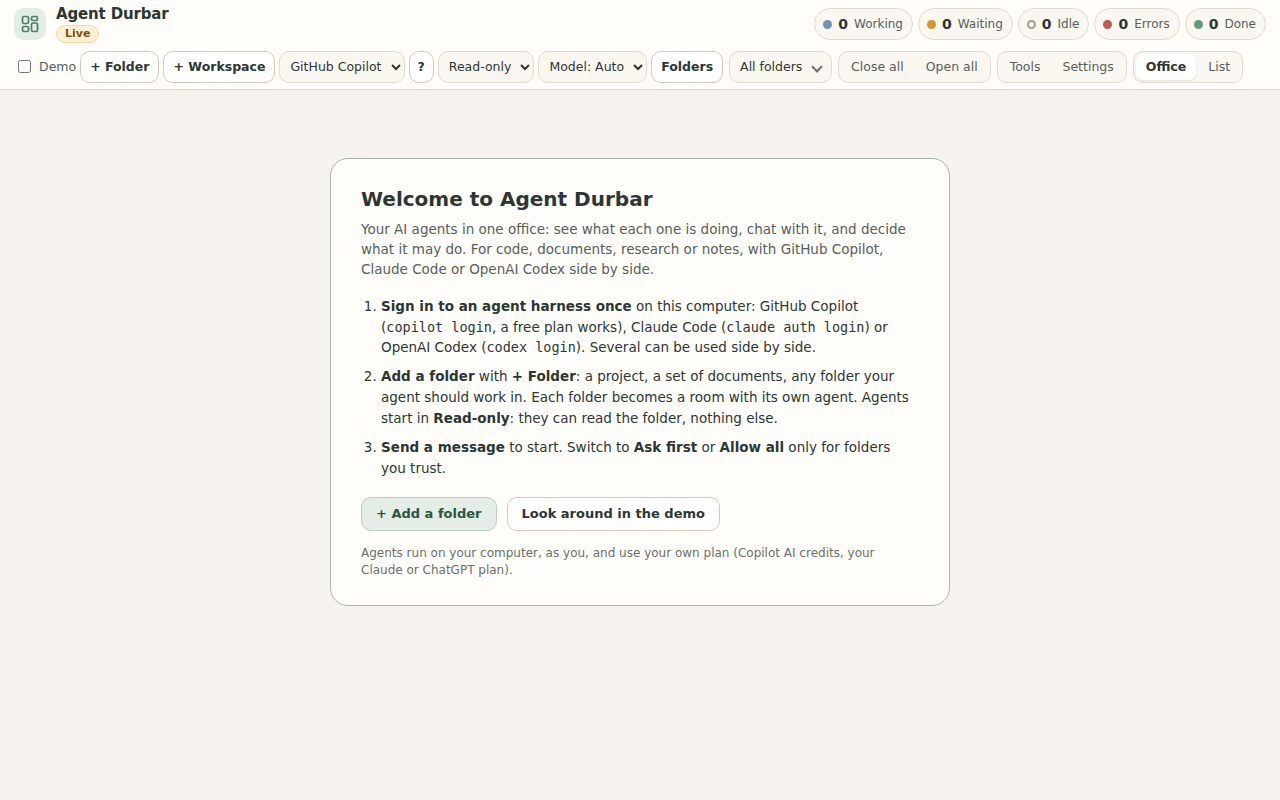
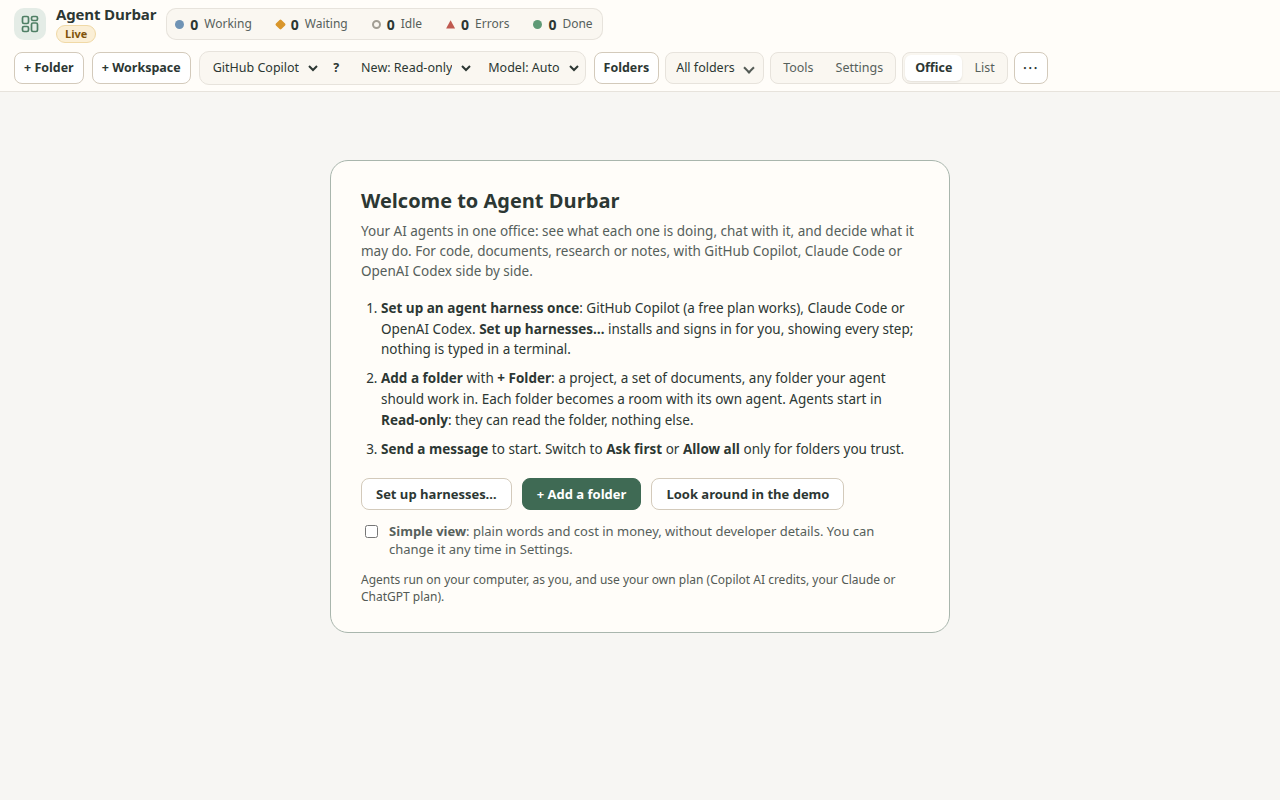
051: entry points, welcome step, real sign-in checks, docs and screenshots

Changed region(s): [[0.2812, 0.375, 0.7188, 0.75], [0.0, 0.0, 0.9688, 0.125], [0.2812, 0.2188, 0.7188, 0.3438]]

diff --git a/src/renderer/app.js b/src/renderer/app.js
@@ -654,17 +654,18 @@ let layoutKey='', layout=null;
 const WELCOME_HTML=`<section class="welcome" aria-labelledby="wlT"><h2 id="wlT">Welcome to Agent Durbar</h2>
   <p class="wl-sub">Your AI agents in one office: see what each one is doing, chat with it, and decide what it may do. For code, documents, research or notes, with GitHub Copilot, Claude Code or OpenAI Codex side by side.</p>
   <ol class="wl-steps">
-    <li><b>Sign in to an agent harness once</b> on this computer: GitHub Copilot (<code>copilot login</code>, a free plan works), Claude Code (<code>claude auth login</code>) or OpenAI Codex (<code>codex login</code>). Several can be used side by side.</li>
+    <li><b>Set up an agent harness once</b>: GitHub Copilot (a free plan works), Claude Code or OpenAI Codex. <b>Set up harnesses…</b> installs and signs in for you, showing every step; nothing is typed in a terminal.</li>
     <li><b>Add a folder</b> with <b>+ Folder</b>: a project, a set of documents, any folder your agent should work in. Each folder becomes a room with its own agent. Agents start in <b>Read-only</b>: they can read the folder, nothing else.</li>
     <li><b>Send a message</b> to start. Switch to <b>Ask first</b> or <b>Allow all</b> only for folders you trust.</li>
   </ol>
-  <div class="wl-actions"><button class="btn primary" type="button" data-wl="add">+ Add a folder</button><button class="btn" type="button" data-wl="demo">Look around in the demo</button></div>
+  <div class="wl-actions"><button class="btn" type="button" data-wl="setup">Set up harnesses…</button><button class="btn primary" type="button" data-wl="add">+ Add a folder</button><button class="btn" type="button" data-wl="demo">Look around in the demo</button></div>
   <label class="wl-simple"><input type="checkbox" data-wl-simple> <span><b>Simple view</b>: plain words and cost in money, without developer details. You can change it any time in Settings.</span></label>
   <p class="wl-note">Agents run on your computer, as you, and use your own plan (Copilot AI credits, your Claude or ChatGPT plan).</p></section>`;
 /* spec 052 FR-031: the welcome card offers Simple */
 document.addEventListener('change',e=>{if(e.target&&e.target.matches&&e.target.matches('[data-wl-simple]'))setDetail(e.target.checked?'simple':'expert');});
 document.addEventListener('click',e=>{const b=e.target.closest('[data-wl]');if(!b)return;
   if(b.dataset.wl==='add')$('addFolder').click();
+  else if(b.dataset.wl==='setup')window.DurbarScreens.openSettings('harnesses'); /* spec 051 FR-008 */
   else{const t=$('demoToggle');t.checked=true;t.dispatchEvent(new Event('change'));}});
 function renderOffice(){
   if(ui.view!=='office')return;
@@ -2247,9 +2248,10 @@ async function loadKinds(refresh){
 async function aboutKinds(){
   for(;;){
     const ch=DMK().kindChoices(KINDS);
-    const r=await askDialog({title:'About agent kinds',body:'Each kind is a different agent harness. Only a kind that is ready can be chosen. Nothing is installed or run from here: copy the hint if you need to set one up.',
+    const r=await askDialog({title:'About agent kinds',body:'Each kind is a different agent harness. Only a kind that is ready can be chosen. Settings > Harnesses can install, update or sign in to one for you.',
       lines:ch.map(k=>k.name+': '+(k.state==='ready'?'ready':k.stateText)+(k.version?' · version '+k.version:'')+(k.hint?' · '+k.hint:'')),
-      buttons:[{label:'Close',value:null},{label:'Check again',value:'again',cls:'primary'}],returnFocus:()=>$('kindHelp')});
+      buttons:[{label:'Close',value:null},{label:'Check again',value:'again'},{label:'Set up harnesses…',value:'setup',cls:'primary'}],returnFocus:()=>$('kindHelp')});
+    if(r&&r.value==='setup'){window.DurbarScreens.openSettings('harnesses');return;} /* spec 051 FR-008 */
     if(!r||r.value!=='again')return;
     await loadKinds(true);
   }

diff --git a/src/renderer/screens.js b/src/renderer/screens.js
@@ -170,6 +170,8 @@
         <details class="scr-more"><summary>More</summary><p class="scr-note small"><b>Folder extras…</b> in an agent's MCP menu opens the same list. Extras apply only to agents in that folder and are never shared with other folders. Switching one on shows its exact command first, and asks again if the command changes.</p></details>
       </section></details>${aboutSec}</div>`;
     wireHead();
+    /* spec 051 FR-008: entry points open Settings at Harnesses */
+    if(cur.section==='harnesses'){cur.section=null;const h=$('hsH');if(h){h.scrollIntoView({block:'start'});h.focus({preventScroll:true});}}
     if($('advMcp')){$('advMcp').ontoggle=()=>{advOpen=$('advMcp').open;};if(cur.section==='mcp'){cur.section=null;const h=$('mcpH');if(h){h.scrollIntoView({block:'start'});h.focus({preventScroll:true});}}}
     if(X.floors&&$('floorsSet'))X.floors.render();
     if(X.sched&&$('schedSet'))X.sched.render();
@@ -742,7 +744,7 @@
   window.DurbarScreens={
     init(ctx){X=ctx;if(window.DurbarHarnesses)window.DurbarHarnesses.init({bridge:ctx.bridge,toast:(t)=>ctx.toast(ctx.esc(t),3600),onChange:(again)=>{X._hsRefresh=true;if(ctx.refreshKinds)ctx.refreshKinds();if(cur&&cur.kind==='settings')paint();}});},
     folderMcp:openFolder,
-    openSettings:(section)=>{mcp=null;open('settings',section==='mcp'?{section:'mcp'}:null);},
+    openSettings:(section)=>{mcp=null;open('settings',section==='mcp'||section==='harnesses'?{section}:null);},
     openTools:(scope,tab)=>{if(tab==='agents')period='session';open('tools',{scope:scope||null,tab:tab||'tools'});},
     agentMcp,
     placeDialog,

diff --git a/specs/051-harness-setup/spec.md b/specs/051-harness-setup/spec.md
@@ -2,7 +2,7 @@
 
 **Feature Branch**: `051-harness-setup`
 **Created**: 2026-10-19
-**Status**: In progress (Phase 1: Settings > Harnesses with install, update and sign-in for Claude Code, Codex and the Copilot sign-in)
+**Status**: Built (Phase 1): Settings > Harnesses with install, update and sign-in for Copilot, Claude Code and Codex; simulator and unit tests, plus real sign-in flows started and cancelled on this machine
 **Input**: Issue #299. Owner (Telegram, 2026-10-19): "for harness setup itself - today we only say that in text, it is better to have wizards inside app to setup harnesses to make life of users easier as this app will also be used by non technical users". The open questions on #299 were decided by Vikram's agent under the owner's delegation the same day ("take decisions on issues which can be taken and you have all means to research and verify"); the decisions are in the issue comment and below.
 
 ## Summary
@@ -71,9 +71,9 @@ Each sign-in was started **without a terminal** (stdin closed, output to a file)
 - **FR-006** **Copilot needs the Copilot CLI only to sign in.** When Copilot is not signed in and the `copilot` CLI is not found, *Sign in…* first offers to install the Copilot CLI (FR-002), then continues with the sign-in.
 - **FR-007** **Copilot sign-in status.** The Copilot adapter gets an optional `authStatus()` that calls `getAuthStatus()` on its shared runtime client: `{ signedIn: boolean }` only (the login name, host and message are dropped). Settings > Harnesses shows Copilot as *Not signed in* when it is false. Detection itself stays free of I/O (`detectCopilot`), so the app's start does not change.
 - **FR-008** **Entry points:**
-  - the welcome screen's sign-in step gets a *Set up harnesses…* link;
-  - in the New session dialog, an unready harness's hint ends with *Set up…*, which opens Settings > Harnesses;
-  - both scroll to the Harnesses section.
+  - the welcome card leads with **Set up harnesses…**;
+  - "About agent kinds" (the "?" next to the harness picker) has **Set up harnesses…**;
+  - both open Settings at the Harnesses section.
 - **FR-009** **Simulator:** with `DURBAR_SIM`, Settings > Harnesses shows Copilot *Ready*, Claude Code *Not signed in* and Codex *Not installed* (with `DURBAR_SIM_KINDS=mixed`). The install and sign-in dialogs play canned output (a fake link and code); nothing runs.
 - **FR-010** **Safety summary** (constitution III):
   - no shell, fixed argv;
@@ -87,6 +87,37 @@ Each sign-in was started **without a terminal** (stdin closed, output to a file)
 - **SC-001** Someone with no terminal knowledge can go from *Not signed in* to *Ready* for Codex or Copilot by clicking *Sign in…*, opening the link and typing the code shown, without leaving Durbar except for the browser.
 - **SC-002** Every command Durbar runs is shown to the user before it runs, and is one of the fixed plans in FR-002 or FR-005.
 - **SC-003** `npm test` covers the plans per OS, the output parsing on the captured outputs, the link allowlist, the paste rules and the runner (fake processes).
+
+## Evidence (2026-10-20)
+
+- `[IMPLEMENTED]`:
+  - `src/shared/harnesssetup.ts` (plans, sign-in parsing, link allowlist, paste rules);
+  - `src/main/harnesssetup.ts` (`HarnessSetup` runner);
+  - IPC `harness:*` and Copilot `authStatus()`;
+  - `src/renderer/harnesses.js` (Settings > Harnesses cards and dialogs);
+  - entry points: the welcome card's **Set up harnesses…**, and the same button in "About agent kinds";
+  - simulator canned flows (`simkinds=solo`).
+- `test:` `test:harnesssetup`:
+  - plans per OS and copies, every argument a plain word;
+  - sign-in parsing on the captured outputs, the link allowlist (suffix, prefix, user info, port and host per harness), the paste rules, ANSI handling and the last lines;
+  - the runner with a fake process: argv, no stdin for device flows, one operation at a time, paste only to Claude, Copilot CLI missing, cancel, timeout, Linuxbrew found, Windows `.cmd` through `cmd /d /s /c` with an unsafe path refused, and output redacted.
+- `sim:` `scripts/shots-051-setup.js` passes at 1440x900 and 1280x800:
+  - three cards (Ready / Not installed / Update needed);
+  - Install shows the exact commands, then runs and closes;
+  - the sign-in shows the link button and the code.
+
+  Screenshots: `docs/screenshots/051-*.png`. The welcome driver passes with the new step 1.
+- `real:` 2026-10-20, this machine (Linux), through `HarnessSetup` with real processes. Each ran with an isolated, empty config folder (`CODEX_HOME`, `COPILOT_HOME`, `CLAUDE_CONFIG_DIR`) and was **cancelled before finishing**, so no real login was changed:
+  - Codex: `auth.openai.com/codex/device` and a code;
+  - Copilot CLI: `github.com` and a code;
+  - Claude Code: a `claude.com` link and the paste prompt.
+
+  All three ended "cancelled".
+- `[KNOWN GAP]`:
+  - no sign-in was completed through the app (that would replace the real logins on this machine);
+  - no install ran for real: winget and Homebrew are not here, and npm `-g` was not run;
+  - Copilot's signed-out state was not observed for real, because the runtime finds the GitHub CLI login in the keychain;
+  - macOS and Windows are untested.
 
 ## Changes
 

diff --git a/specs/051-harness-setup/tasks.md b/specs/051-harness-setup/tasks.md
@@ -1,11 +1,11 @@
 # Tasks: Harness setup inside the app (spec 051, issue #299)
 
-- [ ] T001 `src/shared/harnesssetup.ts`: install and update plans per harness and OS, sign-in plans, output parsing (ANSI, link, code, paste prompt), link allowlist, paste rules, official pages; unit tests on the outputs captured 2026-10-19 [FR-002, FR-003, FR-005]
-- [ ] T002 `src/main/harnesssetup.ts`: runner (argv, Windows `.cmd`, one at a time, timeouts, tree kill, last lines through `redact()`, paste to stdin, re-detect on exit); unit tests with a fake spawn [FR-004, FR-005]
-- [ ] T003 Copilot `authStatus()` on the shared client; IPC `harness:copilotAuth` [FR-007]
-- [ ] T004 IPC and preload: `harness:plans`, `harness:run`, `harness:paste`, `harness:cancel`, progress and done events; `DurbarApi` [FR-004, FR-005]
-- [ ] T005 Settings > Harnesses cards; install, update and sign-in dialogs; Copilot CLI first when missing [FR-001, FR-003, FR-006]
-- [ ] T006 Entry points: welcome screen link, New session hint *Set up…* [FR-008]
-- [ ] T007 Simulator states and canned flows; screenshots at 1440x900 and 1280x800 [FR-009]
-- [ ] T008 Real check on this machine: a sign-in flow through the app with an isolated config folder, stopped before it finishes; npm install into a temporary prefix [SC-001, SC-002]
-- [ ] T009 Docs: README (Install, Harnesses), CHANGELOG, specs index; `[KNOWN GAP]`s for routes not tried
+- [x] T001 `src/shared/harnesssetup.ts`: install and update plans per harness and OS, sign-in plans, output parsing (ANSI, link, code, paste prompt), link allowlist, paste rules, official pages; unit tests on the outputs captured 2026-10-19 [FR-002, FR-003, FR-005]
+- [x] T002 `src/main/harnesssetup.ts`: runner (argv, Windows `.cmd`, one at a time, timeouts, tree kill, last lines through `redact()`, paste to stdin, re-detect on exit); unit tests with a fake spawn [FR-004, FR-005]
+- [x] T003 Copilot `authStatus()` on the shared client; IPC `harness:copilotAuth` [FR-007]
+- [x] T004 IPC and preload: `harness:plans`, `harness:run`, `harness:paste`, `harness:cancel`, progress and done events; `DurbarApi` [FR-004, FR-005]
+- [x] T005 Settings > Harnesses cards; install, update and sign-in dialogs; Copilot CLI first when missing [FR-001, FR-003, FR-006]
+- [x] T006 Entry points: the welcome card's *Set up harnesses…* and the same button in "About agent kinds" (the New session dialog's "?") [FR-008]
+- [x] T007 Simulator states and canned flows; screenshots at 1440x900 and 1280x800 [FR-009]
+- [x] T008 Real check on this machine: the three sign-in flows through the runner with isolated config folders, cancelled before they finish (no install was run for real: `[KNOWN GAP]`) [SC-001, SC-002]
+- [x] T009 Docs: README (Install, Harnesses), CHANGELOG, specs index; `[KNOWN GAP]`s for routes not tried

diff --git a/specs/README.md b/specs/README.md
@@ -158,5 +158,5 @@ New features take the next number (`/speckit.specify` picks it automatically fro
 | [048](048-office-assistant/spec.md) | Office assistant: ask the whole office (who waits, what finished, usage by folder and harness) through a free local query layer, plus an optional model layer with no tools (issue #130) | **draft for the owner's review** (spec, plan, tasks; no code) |
 | [049](049-profiles/spec.md) | Profiles: separate offices per profile (Phase 1), then separate sign-ins through each harness's own home folder (`COPILOT_HOME`, `CLAUDE_CONFIG_DIR`, `CODEX_HOME`), never a token in Durbar (issue #131) | **draft for the owner's review**; Phase 2 needs research R1 |
 | [050](050-project-site/spec.md) | Project website on GitHub Pages, generated from the README, the specs index, screenshots, the CHANGELOG and the latest release; deployed by CI (issue #293) | **built and live** at https://three-feathers.github.io/agent-durbar/ |
-| [051](051-harness-setup/spec.md) | Harness setup inside the app: Settings > Harnesses with install, update and sign-in (issue #299) | in progress |
+| [051](051-harness-setup/spec.md) | Harness setup inside the app: Settings > Harnesses with install, update and sign-in (issue #299) | **built** (unit, simulator; real sign-in flows started and cancelled) |
 | [052](052-usability-pass/spec.md) | Usability pass from four persona reviews: answer bar, calmer chat header, restore banner, contrast, plain words, keyboard N | in progress |

diff --git a/README.md b/README.md
@@ -107,8 +107,8 @@ Codex also ships its own `bwrap` inside its npm package (`…/@openai/codex-linu
 ## Install
 
 **Requirements**
-- At least one harness, installed and signed in: GitHub Copilot (a free plan works), Claude Code, or OpenAI Codex.
-  - For Copilot, sign in once with the Copilot CLI (`copilot login`; see [github/copilot-cli](https://github.com/github/copilot-cli)).
+- At least one harness: GitHub Copilot (a free plan works), Claude Code, or OpenAI Codex. **Settings > Harnesses** can install it through a package manager (winget, Homebrew, npm), with the command shown first, and sign you in with the vendor's own page and a one-time code. Or install and sign in yourself, for example with `copilot login`.
+  - Not tried yet: installs through winget or Homebrew, and the flows on macOS and Windows.
 - Durbar never sees, stores or sends your tokens: each harness reads its own sign-in. Durbar has no accounts, no servers and no telemetry.
 - Usage bills against **your** plans. Several agents in parallel can use credits quickly; see [Costs and caps](#costs-and-caps).
 - Optional: VS Code, VS Code Insiders or VSCodium, for *Open in VS Code*.

diff --git a/CHANGELOG.md b/CHANGELOG.md
@@ -4,6 +4,7 @@ Agent Durbar is an alpha. Builds are unsigned and have only been run by hand on 
 
 ## Unreleased (on `main`, after the alpha.7 tag)
 
+- **Set up harnesses inside the app (spec 051, #299).** Settings > Harnesses shows Copilot, Claude Code and Codex with their state and one next step: **Install…**, **Update…** or **Sign in…**. Durbar runs only fixed package-manager commands (winget, Homebrew, npm), shown before they run, and never a downloaded script. Sign-in uses the vendor's own flow: Durbar shows the link and the one-time code, and never sees a password or stores a token. The welcome card starts here.
 - **Round 3 of the usability pass (spec 052, five new personas).**
   - **Inbox:** it opens on a request, never on a button, and every button is described by its request. After an answer, focus moves to the next request and the outcome is announced. Keys: J/K, A, D, S, O.
   - **Announcements:** new requests are announced to screen readers.
